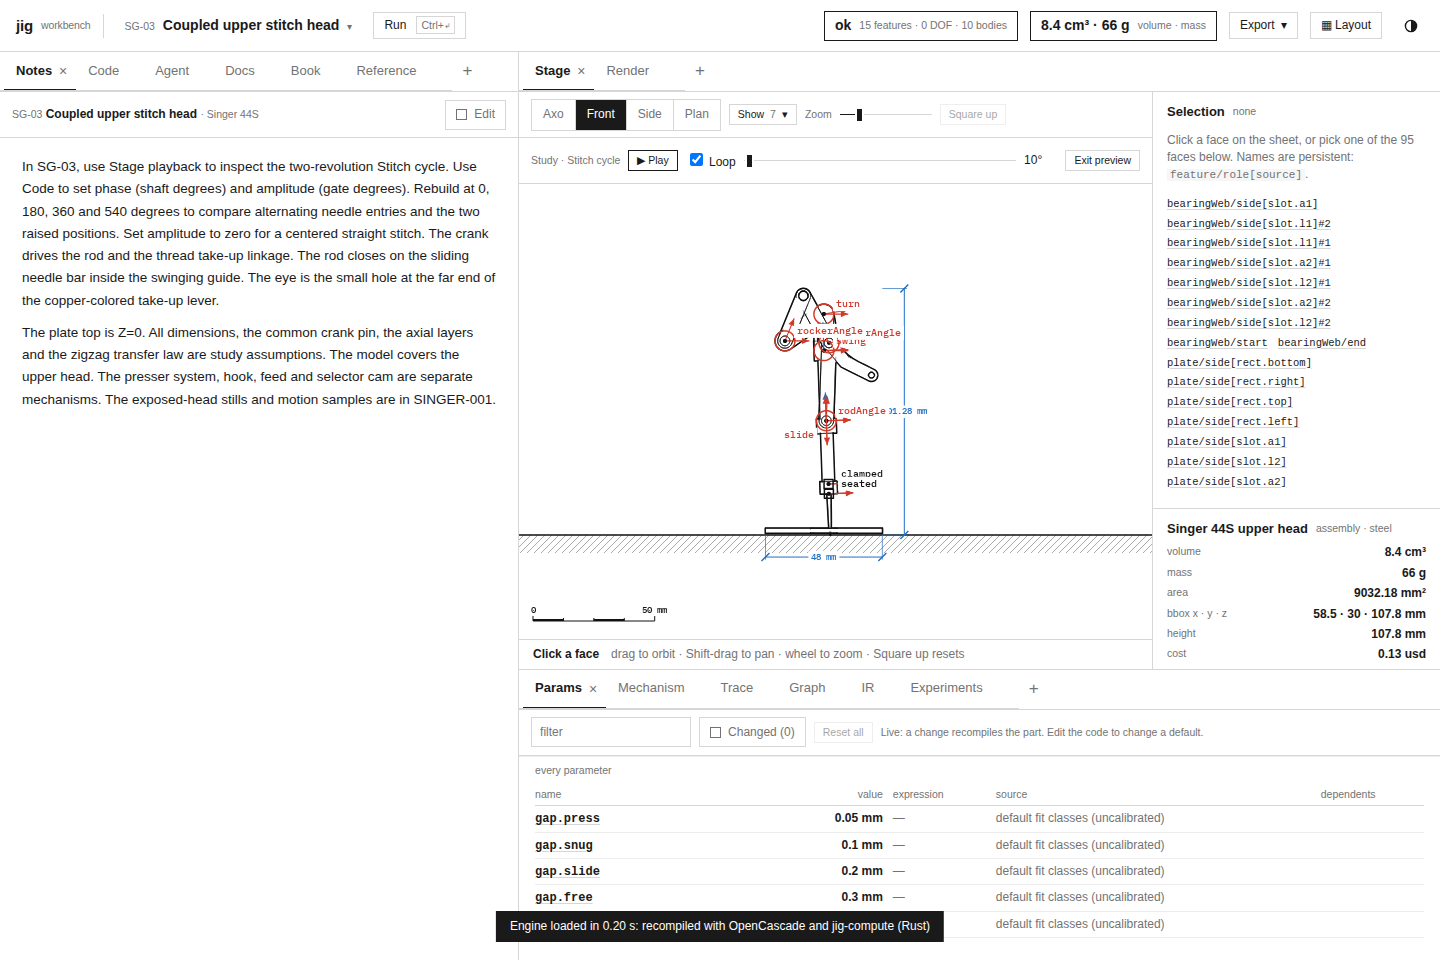
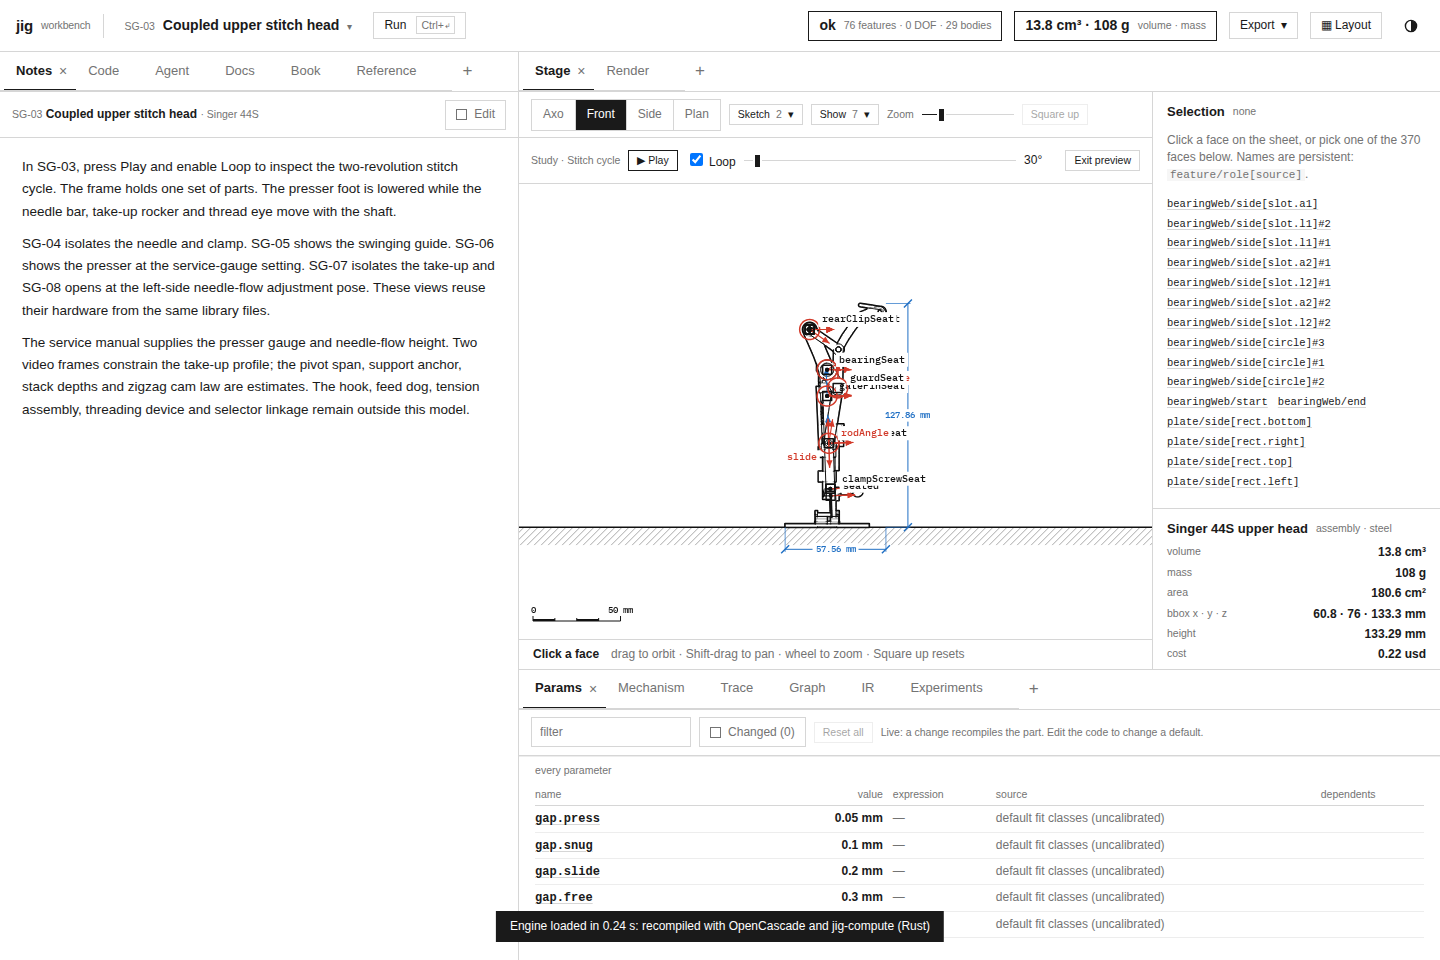
Publish the Singer component atlas, original-to-CAD comparisons and final workbench figures

diff --git a/import/jigcad/content/presets/SG-01-needle-drive/script.js b/import/jigcad/content/presets/SG-01-needle-drive/script.js
@@ -1,6 +1,7 @@
 const parts = await importPartFile('singer.parts.js')
-// Shaft angle from centered bottom dead center, degrees.
-const phase = 60
-// Lateral gate amplitude, degrees. Zero selects a centered straight stitch.
-const amplitude = 0
-return parts.assemble('drive', phase, parts.swingAt(phase, amplitude))
+// The gate stays centered for this straight-stitch study.
+return parts.assemble('drive', 60, 0)
+  .study('Needle stroke', {
+    phase: 'Shaft', from: deg(0), to: deg(360), steps: 72,
+    at: phase => parts.jointValues('drive', phase, 0),
+  })

diff --git a/import/jigcad/content/presets/SG-02-needle-swing/script.js b/import/jigcad/content/presets/SG-02-needle-swing/script.js
@@ -1,6 +1,7 @@
 const parts = await importPartFile('singer.parts.js')
-// Shaft angle from centered bottom dead center, degrees.
-const phase = 0
-// Lateral gate amplitude, degrees. Zero selects a centered straight stitch.
-const amplitude = 2
-return parts.assemble('swing', phase, parts.swingAt(phase, amplitude))
+const law = parts.flowLaw(2)
+return parts.assemble('swing', 0, law.angle(0))
+  .study('Gate and slide', {
+    phase: 'Shaft', from: deg(0), to: deg(720), steps: 144,
+    at: phase => parts.jointValues('swing', phase, law.angle(phase)),
+  })

diff --git a/ttmp/2026/11/24/SINGER-002--singer-44s-component-reconstruction-and-looping-playback/reference/01-upper-head-component-atlas-and-reconstruction-evidence.md b/ttmp/2026/11/24/SINGER-002--singer-44s-component-reconstruction-and-looping-playback/reference/01-upper-head-component-atlas-and-reconstruction-evidence.md
@@ -7,7 +7,15 @@ Topics:
 DocType: reference
 Intent: long-term
 Owners: []
-RelatedFiles: []
+RelatedFiles:
+    - Path: repo://import/jigcad/content/presets/SG-03-upper-head/singer.parts.js
+      Note: Shared head geometry and service-height motion law
+    - Path: repo://import/jigcad/content/presets/SG-06-presser-foot/presser.parts.js
+      Note: Presser, shank, spring and foot geometry
+    - Path: repo://ttmp/2026/11/24/SINGER-002--singer-44s-component-reconstruction-and-looping-playback/sources/source-figures.tsv
+      Note: Indexed original reference photographs and movie frames
+    - Path: repo://ttmp/2026/11/24/SINGER-002--singer-44s-component-reconstruction-and-looping-playback/sources/workbench/index.tsv
+      Note: Workbench camera and body counts
 ExternalSources: []
 Summary: ""
 LastUpdated: 2026-11-24T19:00:35.288566185-05:00
@@ -15,24 +23,41 @@ WhatFor: ""
 WhenToUse: ""
 ---
 
-# Upper head component atlas and reconstruction evidence
+# Singer 44S upper-head component atlas
 
-## Goal
+The eight presets share component definitions. SG-03 contains one needle bar and combines the needle drive, gate, presser and take-up hardware. Each isolated study reuses the geometry visible in the combined model. The housing is represented by local bearing references, and the plate supplies the needle-opening datum. The model covers the upper stitch head. The lower hook, bobbin, four-motion feed, tension system and selector train require additional reconstruction.
 
-<!-- What is the purpose of this reference document? -->
+| Preset | What to inspect | Figure |
+|---|---|---|
+| SG-01 | Centered needle drive over one shaft revolution | [Front](../sources/workbench/SG-01-needle-drive.png) |
+| SG-02 | Needle sliding within the swinging guide | [Front](../sources/workbench/SG-02-needle-swing.png) |
+| SG-03 | 29 bodies in the assembled head. Select Play and Loop in Stage. | [Axonometric](../sources/workbench/SG-03-upper-head.png) |
+| SG-04 | Five separate pieces including the needle, clamp, thumb screw, bar and drive bracket | [Detail](../sources/workbench/sg-04-axo-detail.png) |
+| SG-05 | Two line-bored bearing lands and the transverse gate pin | [Exploded](../sources/workbench/SG-05-swing-support.png) |
+| SG-06 | Lower and upper spring seats, clamp, lifter, shank and foot at the service height | [Axonometric](../sources/workbench/SG-06-presser-foot.png) |
+| SG-07 | Both take-up lever pivots, thread eye, supporter, clips and shaft | [Detail](../sources/workbench/sg-07-front-detail.png) |
+| SG-08 | Left-side needle rise before lateral transfer | [Service setup](../sources/workbench/SG-08-zigzag-timing.png) |
 
-## Context
+## Source-to-CAD comparisons
 
-<!-- Provide background context needed to use this reference -->
+**Needle and clamp.** The rear flat, through-eye, front groove and rear scarf are features of the modeled NM90 needle. The comparison with a manufacturer's 130/705 H dimensional drawing gives a 2.04 mm shank and a 33.9 mm butt-to-upper-eye distance. NM90 is the representative size selected for CAD; its presence in the photographed machine is unverified. Singer's plate E distinguishes the supporter, pin, bar, clamp and screw. The photographic crop shows the paddle and rim notch on the thumb screw. [Hardware evidence and dimensional conventions](02-needle-holder-and-swinging-guide-reconstruction.md)
 
-## Quick Reference
+**Presser foot.** Singer service procedure 3-4 gives a 6.0–6.2 mm setup gauge. The isolated preset opens at the midpoint, 6.1 mm above the plate. The combined preset opens with the sole on the plate. The spring seat changes height when the geometry is rebuilt with the hand lift raised. The current study uses fixed shaft-independent settings for the presser. The solid spring carries no stiffness or force calibration. [Gauge illustration](../sources/presser-foot-gauge.jpg) · [Plate E](../sources/presser-plate-E.jpg) · [Plate E part numbers](../sources/presser-plate-E-list.jpg)
 
-<!-- Provide copy/paste-ready content, API contracts, or quick-look tables -->
+**Take-up.** Singer plate A identifies the lever (32), supporter (33), two clips (34) and supporter shaft (35) in assembly 43. In the long movie, I registered the thread eye to the crank pin and the support pin. With their projected separation as unit length, the eye lies at (2.00, −1.08) in the 2 s view and (2.11, −0.99) in the 8 s view. SG-07 uses the first projection and a nominal 22 mm between pins. This fixes the observed side and reach of the eye. Differences between projections reflect viewpoint and landmark uncertainty. The eye guard remains a reconstruction of its visible outline. [Factory drawing](../sources/plate-a-43.png) · [2-second landmarks](../sources/annotated-linkage-02s.jpg) · [8-second landmarks](../sources/annotated-linkage-08s.jpg) · [Coordinates](../sources/takeup-landmarks.tsv)
 
-## Usage Examples
+**Zigzag timing.** Procedure 3-5 specifies a 3–5 mm needle-point height at the left extreme on the rising stroke, using stitch width dial 6. The model chooses 5 mm. SG-08 starts at that event. The calculation finds the shaft angle at which the tip reaches the target height with the gate held at its extreme. Between dwell intervals the model uses a cosine. The symmetric return timing and the nominal ±3 mm crossing at the plate are assumptions. Dial divisions alone cannot calibrate the cam shape. [Service illustration](../sources/service-needle-flow.png)
 
-<!-- Show how to use this reference in practice -->
+## Fit and uncertainty
 
-## Related
+The earlier mixed assemblies had intersecting solid envelopes even while the pin equations closed. A nine-pose audit found 93 intersections above the test threshold. The most severe was approximately 220.52 mm³ between the crank and pressure regulator. Revisions included a separate shaft bearing, a revised axial stack and grooves for the retaining clips, and moving the presser axis away from the gate hinge. The adopted 22 mm offset, the shaft axis placement and the simplified bearing carrier are fit estimates. These are priority measurements for the specimen.
 
-<!-- Link to related documents or resources -->
+At the final revision, 49 full-head poses spaced 15° apart passed the all-pairs common-volume test with a threshold of 0.001 mm³. The broad-phase bounding-box filter discards overlaps thinner than 0.0001 mm along any one axis. The 145-pose motion check tested rod and supporter closure independently. The largest planar residual was 1.73e-9 mm. These checks qualify the specific CAD arrangement and sampled poses; physical bearing clearances, shaft end play, unobserved depths and motion between samples still require evidence. [Initial collisions](../sources/assembly-fit-initial.tsv) · [Final audit](../sources/assembly-fit.tsv) · [New trajectory](../sources/reconstructed-trajectory.tsv)
+
+## Figure sources for the vault report
+
+The [source figure index](../sources/source-figures.tsv) maps the 13 original photos and 20 selected movie frames to their archive names and timestamps. The [checksum manifest](../sources/archive-manifest.tsv) records the two full movies for later re-extraction from singer-videos.zip. The contact sheets retain the actual presentation timestamps. [Short movie](../sources/video-1-contact-sheet.jpg) · [Long movie](../sources/video-2-contact-sheet.jpg)
+
+The [workbench index](../sources/workbench/index.tsv) records the preset, camera, compiled features and body count for each of the twelve CAD images. Reference images and generated CAD images are stored separately. The [implementation diary](../diary/01-implementation-and-geometry-evidence-diary.md) records the geometry revisions that distinguish these captures from the first Singer study.
+
+The family parts book explicitly lists 44S. Its downloaded PDF has SHA-256 43d3949b1fea2177859893a72ce6b4b7d7d5ebcab4c9a9e01310f635764de0f9. The local Singer service manual, 104 73 14-26 dated 2022-11-08, has SHA-256 8a8008a34bf8221f4df570dcd3d9d7001ce0e360f0b4f8025990234d85b3e281. Use its printed page numbers for citations; the PDF page index is one page later in the adjustment sections. [Singer family parts book](https://site.singeronline.com/ssl/instructions/Sgr_4411_4423_4432_4452_44S_5511_5523_5532.pdf)

diff --git a/ttmp/2026/11/24/SINGER-002--singer-44s-component-reconstruction-and-looping-playback/index.md b/ttmp/2026/11/24/SINGER-002--singer-44s-component-reconstruction-and-looping-playback/index.md
@@ -17,36 +17,6 @@ WhenToUse: ""
 
 # Singer 44S component reconstruction and looping playback
 
-## Overview
+Open the [upper-head component atlas](reference/01-upper-head-component-atlas-and-reconstruction-evidence.md) for the eight presets and their source-to-CAD comparisons. The [hardware reference](reference/02-needle-holder-and-swinging-guide-reconstruction.md) covers the selected needle system, clamp, guide and exact-solid checks.
 
-<!-- Provide a brief overview of the ticket, its goals, and current status -->
-
-## Key Links
-
-- **Related Files**: See frontmatter RelatedFiles field
-- **External Sources**: See frontmatter ExternalSources field
-
-## Status
-
-Current status: **active**
-
-## Topics
-
-- cad
-
-## Tasks
-
-See [tasks.md](./tasks.md) for the current task list.
-
-## Changelog
-
-See [changelog.md](./changelog.md) for recent changes and decisions.
-
-## Structure
-
-- design/ - Architecture and design documents
-- reference/ - Prompt packs, API contracts, context summaries
-- playbooks/ - Command sequences and test procedures
-- scripts/ - Temporary code and tooling
-- various/ - Working notes and research
-- archive/ - Deprecated or reference-only artifacts
+Use the [photo and frame index](sources/source-figures.tsv) and [workbench screenshot index](sources/workbench/index.tsv) when preparing the vault report. The [diary](diary/01-implementation-and-geometry-evidence-diary.md) records which placements changed during fitting and which dimensions still require measurement.

diff --git a/ttmp/2026/11/24/SINGER-002--singer-44s-component-reconstruction-and-looping-playback/diary/01-implementation-and-geometry-evidence-diary.md b/ttmp/2026/11/24/SINGER-002--singer-44s-component-reconstruction-and-looping-playback/diary/01-implementation-and-geometry-evidence-diary.md
@@ -102,3 +102,9 @@ Run scripts/06-check-presser.mjs, 08-check-needle-hardware.mjs, 11-audit-head-fi
 ### Technical details
 
 The final all-pairs audit sampled 49 shaft positions at 15° intervals. No pair exceeded 0.001 mm³ of common volume after the bounding-box screen. This checks sampled solid geometry. Fabric, elastic response, axial play, tolerances and continuous collision detection require additional evidence.
+
+## Step 3. Capture the fitted assembly and publish the figure index
+
+The hardware milestone was 8aa7383. I added study playback to both isolated drive views, rebuilt the workbench, captured all eight presets and saved four additional detail views. The screenshot script checked the CLI feature and body counts against the loaded browser model. A capture of the Loop control was also refreshed on the assembled model.
+
+The historical Stage regression now reads its original source fixture at ba235fe when comparing to the earlier trajectory. I ran both its worker and Chromium checks using a temporary image destination; the historical figures remain reproducible. The new ticket has its own matching trajectory and capture scripts. The component atlas indexes the original and generated images separately for later vault writing.

diff --git a/import/jigcad/content/presets/SG-02-needle-swing/notes.md b/import/jigcad/content/presets/SG-02-needle-swing/notes.md
@@ -1,1 +1,4 @@
-../SG-03-upper-head/notes.md
+The pivoted support contains a sliding needle bar. In Stage, enable Loop and
+play the gate and slide study. The two motions use the same shaft-phase
+function as SG-03, with a 2° gate amplitude. Compare the two penetration
+sides at 0° and 360°. SG-05 provides an exploded static view of the bearings.

diff --git a/import/jigcad/content/presets/SG-01-needle-drive/notes.md b/import/jigcad/content/presets/SG-01-needle-drive/notes.md
@@ -1,1 +1,4 @@
-../SG-03-upper-head/notes.md
+The crank, rod, stud and needle share their definitions with SG-03. This
+preset holds the gate centered. Press Play and enable Loop for a straight
+stitch shaft revolution. At 0° the centered needle is lowest; at 180° it is
+highest. The estimated crank radius gives a nominal 24 mm stroke.

diff --git a/ttmp/2026/11/24/SINGER-002--singer-44s-component-reconstruction-and-looping-playback/changelog.md b/ttmp/2026/11/24/SINGER-002--singer-44s-component-reconstruction-and-looping-playback/changelog.md
@@ -3,3 +3,7 @@
 ## 2026-11-24
 
 - Initial workspace created
+
+## 2026-11-24
+
+Shipped Stage Loop, eight component presets, indexed original images and workbench captures, and a sampled upper-head solid-fit audit.

diff --git a/ttmp/2026/11/24/SINGER-002--singer-44s-component-reconstruction-and-looping-playback/tasks.md b/ttmp/2026/11/24/SINGER-002--singer-44s-component-reconstruction-and-looping-playback/tasks.md
@@ -1,3 +1,4 @@
 # Tasks
 
 ## TODO
+- [ ] Measure actual shaft planes, pivot spacing and presser-axis offset on an identified Singer 44S <!-- t:5b03 -->
